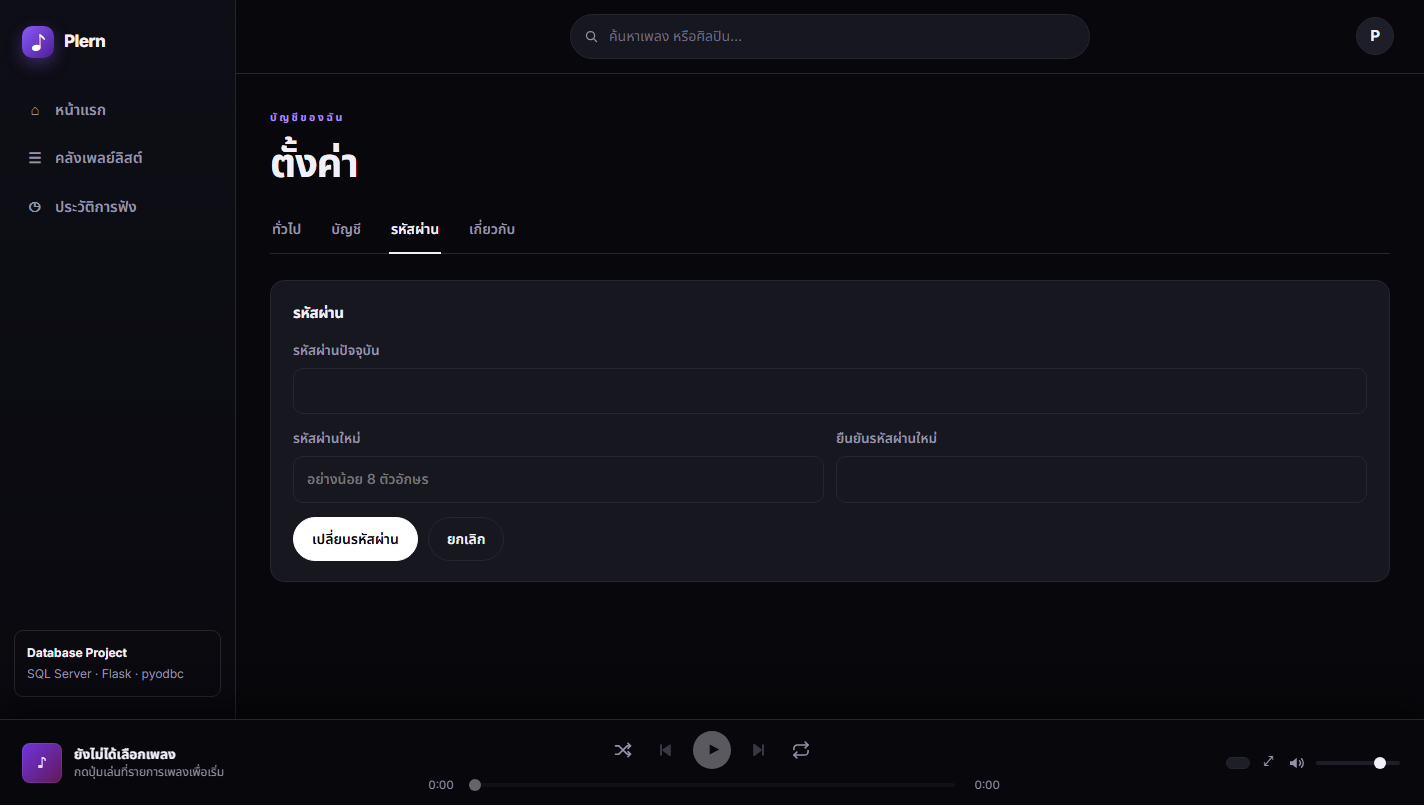
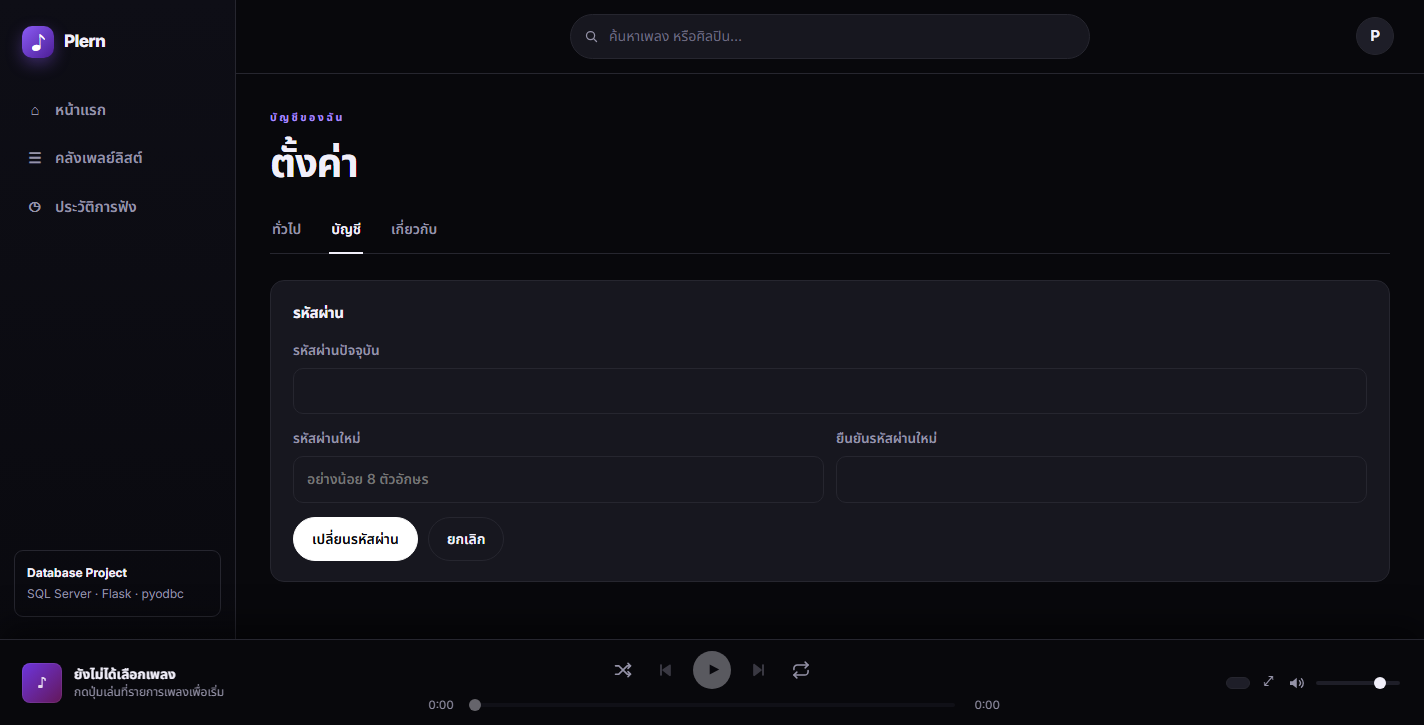
ui(settings): drop the password tab; the page highlights the Account tab instead

diff --git a/app/i18n.py b/app/i18n.py
@@ -28,7 +28,6 @@ STRINGS: dict[str, dict[str, str]] = {
         "settings.sub": "ข้อมูลบัญชี การใช้งาน และการตั้งค่าทั่วไป",
         "settings.tab.general": "ทั่วไป",
         "settings.tab.account": "บัญชี",
-        "settings.tab.password": "รหัสผ่าน",
         "settings.tab.about": "เกี่ยวกับ",
         "settings.playback": "การเล่นเพลง",
         "settings.playback_note": "ระดับเสียงถูกจำไว้ในเบราว์เซอร์ของคุณ (localStorage) จึงคงอยู่แม้รีเฟรชหน้า",
@@ -99,7 +98,6 @@ STRINGS: dict[str, dict[str, str]] = {
         "settings.sub": "Account details, usage and general preferences",
         "settings.tab.general": "General",
         "settings.tab.account": "Account",
-        "settings.tab.password": "Password",
         "settings.tab.about": "About",
         "settings.playback": "Playback",
         "settings.playback_note": "Volume is remembered in your browser (localStorage), so it survives a refresh.",

diff --git a/app/routes.py b/app/routes.py
@@ -776,8 +776,6 @@ def _settings_tabs(active: str) -> list[dict]:
          "label": "settings.tab.general"},
         {"slug": "account", "url": url_for("main.settings_tab", tab="account"),
          "label": "settings.tab.account"},
-        {"slug": "password", "url": url_for("main.change_password_page"),
-         "label": "settings.tab.password"},
         {"slug": "about", "url": url_for("main.settings_tab", tab="about"),
          "label": "settings.tab.about"},
     ], active
@@ -944,8 +942,8 @@ def change_password_page():
             flash("เปลี่ยนรหัสผ่านแล้ว", "success")
             return redirect(url_for("main.settings_tab", tab="account"))
 
-    entries, _ = _settings_tabs("password")
-    return render_template("settings_password.html", tab="password", tabs=entries,
+    entries, _ = _settings_tabs("account")
+    return render_template("settings_password.html", tab="account", tabs=entries,
                            user=g.user, stats=None)
 
 
